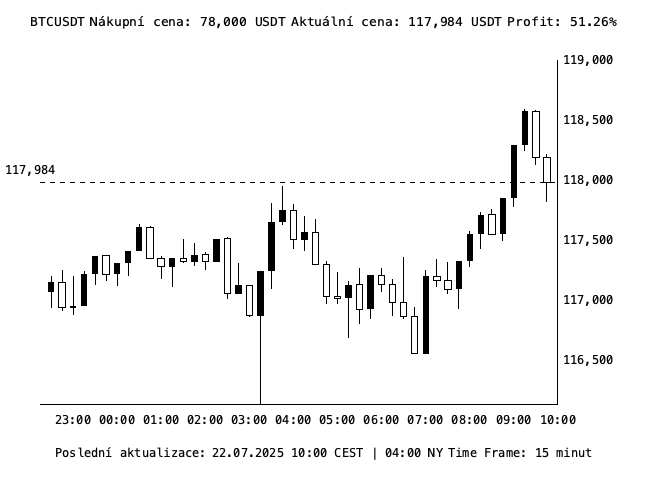
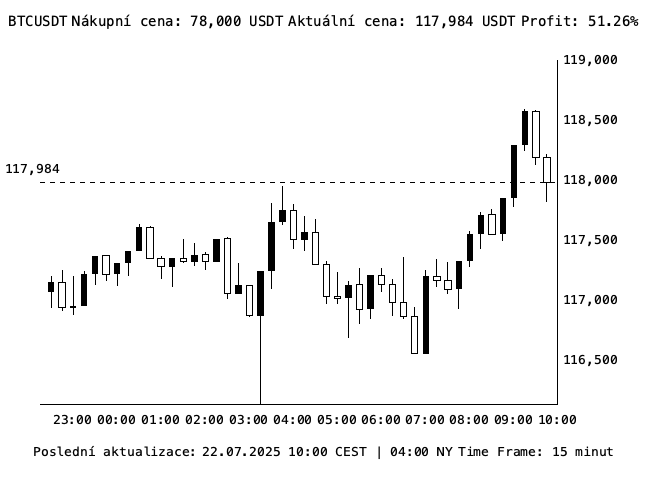
Updated to TerminusTTF font, adjusted current price logic to last closed candle, and refined layout.

diff --git a/render.js b/render.js
@@ -37,9 +37,6 @@ async function getBinanceCandlesData() {
     }));
 }
 
-// --- Funkce pro získání AKTUÁLNÍ TRŽNÍ CENY je ZDE ODSTRANĚNA, protože ji už nechceme používat ---
-
-
 // --- Hlavní funkce pro kreslení grafu ---
 async function drawChart() {
     ctx.fillStyle = 'white';
@@ -50,19 +47,15 @@ async function drawChart() {
 
     try {
         candles = await getBinanceCandlesData(); // Načteme data svíček
-        // <--- ZMĚNA: Kontrolujeme, zda máme alespoň 2 svíčky pro spolehlivou poslední uzavřenou
         if (!candles || candles.length < 2) { 
             throw new Error("Nedostatek dat svíček z Binance API pro určení poslední uzavřené svíčky.");
         }
-        // <--- ZMĚNA: Používáme zavírací cenu předposlední svíčky, která by měla být uzavřená
         lastClosedCandlePrice = candles[candles.length - 2].c; 
     } catch (error) {
         console.error("Chyba při načítání dat z Binance:", error);
-        // Text pro chybu - s anti-aliasingem
-        ctx.antialias = 'default';
-        ctx.textDrawingMode = 'glyph';
+        // Text pro chybu - BEZ ANTI-ALIASINGU
         ctx.fillStyle = 'black';
-        ctx.font = '18px "TerminusTTF", monospace';
+        ctx.font = '22px "TerminusTTF", monospace'; // ZVĚTŠENO: z 20px na 22px
         ctx.textAlign = 'center';
         ctx.fillText('Chyba načítání dat!', width / 2, height / 2);
         saveImage();
@@ -108,7 +101,7 @@ async function drawChart() {
     // ZAPNUTÍ anti-aliasingu pro text
     ctx.antialias = 'default';
     ctx.textDrawingMode = 'glyph';
-    ctx.font = '12px "TerminusTTF", monospace';
+    ctx.font = '13px "TerminusTTF", monospace'; // ZVĚTŠENO: z 12px na 13px
     ctx.textAlign = 'left';
     ctx.textBaseline = 'middle';
     for (let p = minPrice; p <= maxPrice; p += 500) {
@@ -155,7 +148,7 @@ async function drawChart() {
     });
 
     // --- Čárkovaná linka AKTUÁLNÍ CENY z poslední UZAVŘENÉ svíčky (anti-aliasing VYPNUTÝ) ---
-    const yCurrentPriceFromLastClosedCandle = paddingTop + chartHeight - (lastClosedCandlePrice - adjustedMinPrice) * scaleY; // <--- Využíváme cenu z poslední uzavřené
+    const yCurrentPriceFromLastClosedCandle = paddingTop + chartHeight - (lastClosedCandlePrice - adjustedMinPrice) * scaleY;
     ctx.setLineDash([5, 5]);
     ctx.beginPath();
     ctx.moveTo(paddingLeft, yCurrentPriceFromLastClosedCandle);
@@ -171,7 +164,7 @@ async function drawChart() {
     ctx.textDrawingMode = 'glyph';
     ctx.textAlign = 'center';
     ctx.fillStyle = 'black';
-    ctx.font = '12px "TerminusTTF", monospace';
+    ctx.font = '13px "TerminusTTF", monospace'; // ZVĚTŠENO: z 12px na 13px
     for (let t = Math.ceil(minTime / (1000 * 60 * 60)) * (1000 * 60 * 60); t <= maxTime; t += (1000 * 60 * 60)) {
         const x = paddingLeft + (t - minTime) * scaleX;
         if (x < paddingLeft || x > paddingLeft + chartWidth) continue;
@@ -185,9 +178,9 @@ async function drawChart() {
     // Zobrazení AKTUÁLNÍ CENY z poslední UZAVŘENÉ svíčky vlevo u čárkované linky
     ctx.antialias = 'default';
     ctx.textDrawingMode = 'glyph';
-    const currentPriceToDisplay = Math.round(lastClosedCandlePrice); // <--- Používáme cenu z poslední uzavřené
+    const currentPriceToDisplay = Math.round(lastClosedCandlePrice);
     ctx.fillStyle = 'black';
-    ctx.font = '12px "TerminusTTF", monospace';
+    ctx.font = '13px "TerminusTTF", monospace'; // ZVĚTŠENO: z 12px na 13px
     ctx.textAlign = 'left';
     ctx.textBaseline = 'bottom';
     ctx.fillText(currentPriceToDisplay.toLocaleString(), 5, yCurrentPriceFromLastClosedCandle - 5);
@@ -198,10 +191,10 @@ async function drawChart() {
     ctx.antialias = 'default';
     ctx.textDrawingMode = 'glyph';
     const averageBuyPrice = 78000;
-    const currentPriceRoundedTop = Math.round(lastClosedCandlePrice); // <--- Používáme cenu z poslední uzavřené
+    const currentPriceRoundedTop = Math.round(lastClosedCandlePrice);
     let profitPercentage = 0;
     if (averageBuyPrice > 0) {
-        profitPercentage = ((lastClosedCandlePrice - averageBuyPrice) / averageBuyPrice) * 100; // <--- Výpočet profitu s cenou z poslední uzavřené
+        profitPercentage = ((lastClosedCandlePrice - averageBuyPrice) / averageBuyPrice) * 100;
     }
     const profitFormattedText = `${profitPercentage.toFixed(2)}%`;
 
@@ -212,7 +205,7 @@ async function drawChart() {
         `Profit: ${profitFormattedText}`
     ];
     const spacingBetweenSegments = 5;
-    ctx.font = `bold 13px "TerminusTTF", monospace`;
+    ctx.font = `bold 14px "TerminusTTF", monospace`; // ZVĚTŠENO: z 13px na 14px
 
     let totalWidthTop = 0;
     const segmentWidthsTop = textSegments.map(segment => {
@@ -244,7 +237,7 @@ async function drawChart() {
     // Spodní řádek textů: "Poslední aktualizace:", Datum, Čas a Time Frame
     ctx.antialias = 'default';
     ctx.textDrawingMode = 'glyph';
-    const lastCandleTime = new Date(candles[candles.length - 1].t); // Čas poslední svíčky (i když otevřená)
+    const lastCandleTime = new Date(candles[candles.length - 1].t);
     const formattedDate = format(lastCandleTime, 'dd.MM.yyyy');
     const cestHours = lastCandleTime.getHours();
     const cestMins = lastCandleTime.getMinutes();
@@ -262,7 +255,7 @@ async function drawChart() {
         timeframeText
     ];
     const spacingBottomSegments = 5;
-    ctx.font = '12px "TerminusTTF", monospace';
+    ctx.font = '13px "TerminusTTF", monospace'; // ZVĚTŠENO: z 12px na 13px
 
     let totalBottomWidth = 0;
     const bottomSegmentWidths = bottomTextSegments.map(segment => {
